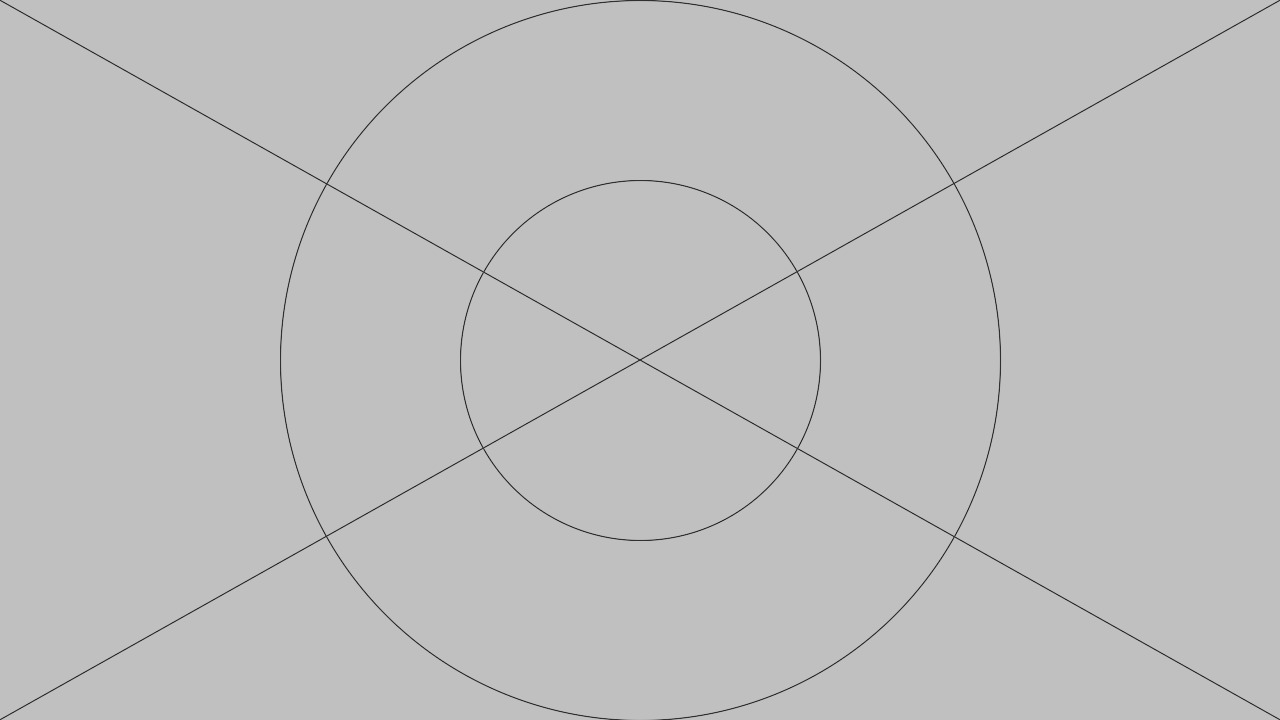
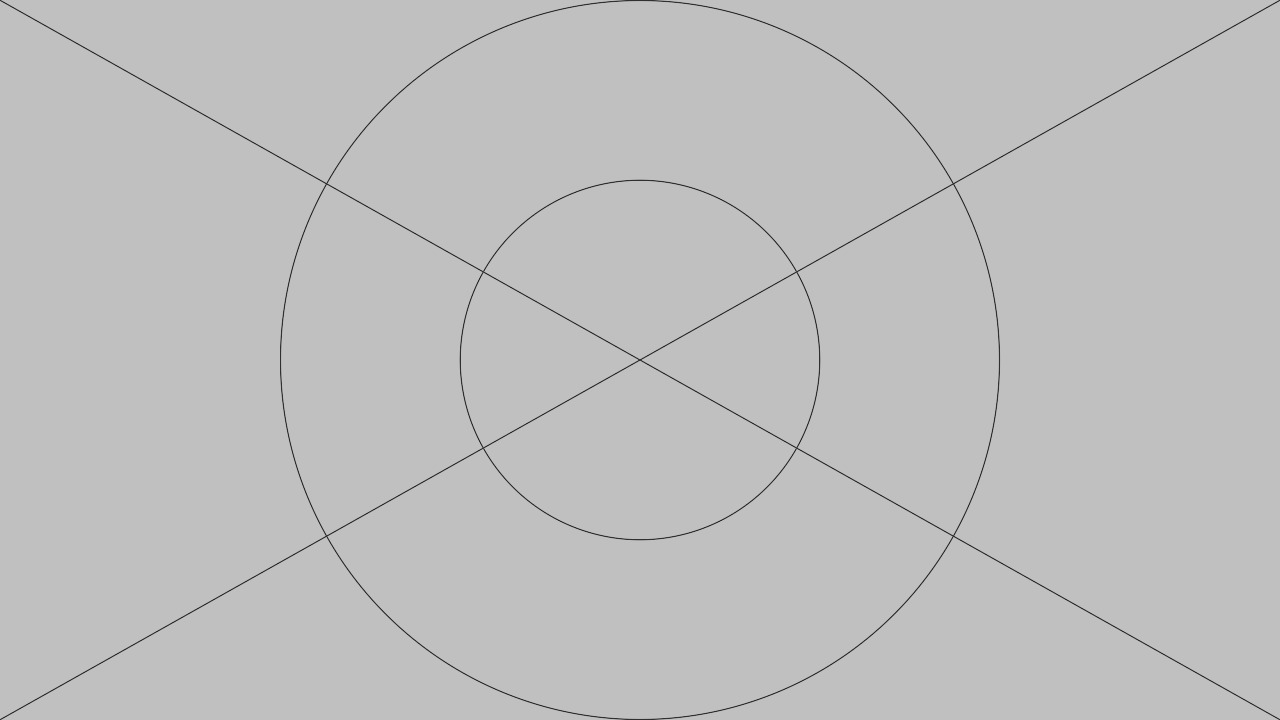
add mig-osoky-files.js

diff --git a/server/image-script/mig-osoky-files.js b/server/image-script/mig-osoky-files.js
@@ -1,0 +1,72 @@
+var exec = require('child_process').exec;
+var fs = require('fs');
+var tds = require('tedious');
+var types = tds.TYPES;
+
+var init = require('../base/init');
+var config = require('../base/config');
+var fs2 = require('../base/fs2');
+var mongo2 = require('../base/mongo2');
+var imageb = require('../image/image-base');
+
+/* 
+  먼저 public 디렉토리를 public-old 로 변경해 놓는다.
+  구 디렉토리에서 새 디렉토리로 필요한 파일만 이동한다.
+
+  $ node server/image-script/mig-osoky-files.js -c config/osoky-dev.json 1 10
+*/
+
+init.main(function (done) {
+  if (config.argv._.length != 2) {
+    console.log('Start and end ids should be specified.');
+    return done();
+  }
+  var s = parseInt(config.argv._[0]);
+  var e = parseInt(config.argv._[1]);
+  var i = s;
+  (function loop() {
+    if (i > e) {
+      mongo2.db.close();
+      return done();
+    }
+    doIt(i++, function (err) {
+      if (err) return done(err);
+      setImmediate(loop);
+    });
+  })();
+});
+
+var maxWidth = 1080;
+
+function doIt(id, done) {
+  var src = config.uploadDir + '/public-old/images/' + fs2.makeDeepPath(id, 3) + '/' + id + '-org.jpeg';
+  console.log(src);
+  fs.access(src, function (err) {
+    if (err) return done();
+    imageb.checkImageMeta(src, function (err, meta) {
+      if (err) return done(err);
+      fs2.makeDir(imageb.getDir(id), function (err) {
+        if (err) return done(err);
+        var shorter = meta.shorter * 299 / 320;
+        var max = shorter < maxWidth ? shorter : maxWidth;
+        var r = (max - 1) / 2;
+        var cmd = 'convert ' + src;
+        cmd += ' -quality 92';
+        cmd += ' -gravity center';
+        cmd += ' -auto-orient';
+        cmd += ' -crop ' + shorter + 'x' + shorter + '+0+0';
+        cmd += ' +repage';
+        cmd += ' -resize ' + max + 'x' + max + '\\>';
+        cmd += ' \\( -size ' + max + 'x' + max + ' xc:black -fill white -draw "circle ' + r + ',' + r + ' ' + r + ',0" \\)'
+        cmd += ' -alpha off -compose CopyOpacity -composite'
+        //cmd += ' \\( +clone -alpha opaque -fill white -colorize 100% \\)'
+        //cmd += ' +swap -geometry +0+0 -compose Over -composite -alpha off'
+        cmd += ' -background white -alpha remove -alpha off'; // alpha remove need IM 6.7.5 or above
+        cmd += ' ' + imageb.getPath(id);
+        exec(cmd, function (err) {
+          done(err, null);
+        });
+      });
+    });
+  });
+}

diff --git a/samples/make-samples.js b/samples/make-samples.js
@@ -34,17 +34,19 @@ function saveImage(next) {
     var v = _vers[i++];
     var w = v.width;
     var h = v.height;
+    var lx = w - 1;
+    var ly = h - 1;
     var cmd = '';
     cmd += 'convert -size ' + w + 'x' + h + ' xc:#c0c0c0';
     cmd += ' -fill "#c0c0c0" -stroke "#303030" '
     if (w > h) {
-      cmd += ' -draw "circle ' + w / 2 + ', ' + h / 2 + ', ' + w / 2 + ', 0"';
-      cmd += ' -draw "circle ' + w / 2 + ', ' + h / 2 + ', ' + w / 2 + ', ' + h / 4 + '"';
+      cmd += ' -draw "circle ' + lx / 2 + ', ' + ly / 2 + ', ' + lx / 2 + ', 0"';
+      cmd += ' -draw "circle ' + lx / 2 + ', ' + ly / 2 + ', ' + lx / 2 + ', ' + ly / 4 + '"';
     } else {
-      cmd += ' -draw "circle ' + w / 2 + ', ' + h / 2 + ', ' + '0, ' + h / 2 + '"';
-      cmd += ' -draw "circle ' + w / 2 + ', ' + h / 2 + ', ' + w / 4 + ', ' + h / 2 + '"';
+      cmd += ' -draw "circle ' + lx / 2 + ', ' + ly / 2 + ', ' + '0, ' + ly / 2 + '"';
+      cmd += ' -draw "circle ' + lx / 2 + ', ' + ly / 2 + ', ' + lx / 4 + ', ' + ly / 2 + '"';
     }
-    cmd += ' -draw "line 0,0 ' + (w - 1) + ',' + (h - 1) + ' line 0,' + (h - 1) + ' ' + (w - 1) + ',0"';
+    cmd += ' -draw "line 0,0 ' + lx + ',' + ly + ' line 0,' + ly + ' ' + lx + ',0"';
     cmd += ' -quality 92 samples/' + w + 'x' + h + '.jpg';
     console.log(cmd);
     exec(cmd, function (err) {

diff --git a/server/image/image-base-osoky.js b/server/image/image-base-osoky.js
@@ -40,20 +40,20 @@ imageb.checkImageMeta = function (path, done) {
   });
 };
 
-imageb.saveImage = function (id, upload, meta, done) {
+imageb.saveImage = function (id, src, meta, done) {
   fs2.makeDir(imageb.getDir(id), function (err) {
     if (err) return done(err);
     var shorter = meta.shorter;
     var max = shorter < maxWidth ? shorter : maxWidth;
-    var r = (max / 2) >> 0;
-    var cmd = 'convert ' + upload.path;
+    var r = (max - 1) / 2;
+    var cmd = 'convert ' + src;
     cmd += ' -quality 92';
     cmd += ' -gravity center';
     cmd += ' -auto-orient';
     cmd += ' -crop ' + shorter + 'x' + shorter + '+0+0';
-    //cmd += ' +repage'
+    cmd += ' +repage'; // gif 등에 버추얼 캔버스 개념이 있는데 jpeg 으로 출력하더라고 메타 데이터 소거를 위해 crop 후 repage 하는 것이 좋다.
     cmd += ' -resize ' + max + 'x' + max + '\\>';
-    cmd += ' \\( -size ' + max + 'x' + max + ' xc:black -fill white -draw "circle ' + r + ',' + r + ' ' + r + ',1" \\)'
+    cmd += ' \\( -size ' + max + 'x' + max + ' xc:black -fill white -draw "circle ' + r + ',' + r + ' ' + r + ',0" \\)'
     cmd += ' -alpha off -compose CopyOpacity -composite'
     //cmd += ' \\( +clone -alpha opaque -fill white -colorize 100% \\)'
     //cmd += ' +swap -geometry +0+0 -compose Over -composite -alpha off'

diff --git a/server/image/image-update.js b/server/image/image-update.js
@@ -40,7 +40,7 @@ expb.core.put('/api/images/:id([0-9]+)', expu.handler(function (req, res, done) 
           if (err) return done(err);
           // 파일, 디렉토리 삭제는 하지 않고 그냥 덮어쓴다.
           // 삭제할 때 파일 없을 경우 에러나는 등 부작용 가능성.
-          imageb.saveImage(id, upload, meta, function (err, vers) {
+          imageb.saveImage(id, upload.path, meta, function (err, vers) {
             if (err) return done(err);
             next({}, meta, vers);
           });

diff --git a/server/image/image-new.js b/server/image/image-new.js
@@ -45,7 +45,7 @@ expb.core.post('/api/images', expu.handler(function (req, res, done) {
           imageb.checkImageMeta(upload.path, function (err, meta) {
             if (err) return done(err);
             var id = imageb.getNewId();
-            imageb.saveImage(id, upload, meta, function (err, vers) {
+            imageb.saveImage(id, upload.path, meta, function (err, vers) {
               if (err) return done(err);
               var image = {
                 _id: id,

diff --git a/server/base/assert2.js b/server/base/assert2.js
@@ -12,8 +12,15 @@ assert2.chai.use(function (chai, utils) {
   var Assertion = chai.Assertion;
   Assertion.addProperty('pathExist', function () {
     new Assertion(this._obj).a('string');
+    var exist;
+    try {
+      fs.accessSync(this._obj);
+      exist = true;
+    } catch (e) {
+      exist = false;
+    }
     this.assert(
-      fs.existsSync(this._obj),
+      exist,
       "expected #{this} to exist",
       "expected #{this} not to exist"
     );

diff --git a/server/image/image-base-raysoda.js b/server/image/image-base-raysoda.js
@@ -40,10 +40,10 @@ imageb.checkImageMeta = function (path, done) {
   });
 };
 
-imageb.saveImage = function (id, upload, meta, done) {
+imageb.saveImage = function (id, src, meta, done) {
   fs2.makeDir(imageb.getDir(id), function (err) {
     if (err) return done(err);
-    var cmd = 'convert ' + upload.path;
+    var cmd = 'convert ' + src;
     cmd += ' -quality 92';
     cmd += ' -auto-orient';
     cmd += ' -resize ' + maxWidth + 'x' + maxWidth + '\\>';

diff --git a/server/image/image-base-drypot.js b/server/image/image-base-drypot.js
@@ -38,10 +38,10 @@ imageb.checkImageMeta = function (path, done) {
   });
 };
 
-imageb.saveImage = function (id, upload, meta, done) {
+imageb.saveImage = function (id, src, meta, done) {
   fs2.makeDir(imageb.getDir(id), function (err) {
     if (err) return done(err);
-    fs.rename(upload.path, imageb.getPath(id), function (err) {
+    fs2.copy(src, imageb.getPath(id), function (err) {
       done(err, null);
     });
   });

diff --git a/public/static/css/base.css b/public/static/css/base.css
@@ -47,6 +47,11 @@ pre.sample {
   margin: 0 auto;
   text-align: left; }
 
+.basic-table table {
+  margin: 0 auto; }
+  .basic-table table td {
+    padding: 0px 20px; }
+
 .site-name {
   margin: 0.6em auto;
   font-size: 1.3em; }
@@ -145,8 +150,3 @@ pre.sample {
 
 #profile-text {
   white-space: pre-line; }
-
-.basic-table table {
-  margin: 0 auto; }
-  .basic-table table td {
-    padding: 0px 20px; }

diff --git a/server/image/image-base-rapixel.js b/server/image/image-base-rapixel.js
@@ -58,10 +58,10 @@ imageb.checkImageMeta = function (path, done) {
   });
 };
 
-imageb.saveImage = function (id, upload, meta, done) {
+imageb.saveImage = function (id, src, meta, done) {
   fs2.makeDir(imageb.getDir(id), function (err) {
     if (err) return done(err);
-    var cmd = 'convert ' + upload.path;
+    var cmd = 'convert ' + src;
     cmd += ' -quality 92';
     cmd += ' -gravity center';
 

diff --git a/public/static/css/base.scss b/public/static/css/base.scss
@@ -98,6 +98,17 @@ pre.sample {
   text-align: left;
 }
 
+// table
+
+.basic-table {
+  table {
+    margin: 0 auto;
+    td {
+      padding: 0px 20px;
+    }
+  }
+}
+
 // home
 
 .site-name {
@@ -240,15 +251,3 @@ pre.sample {
 #profile-text {
   white-space: pre-line;
 }
-
-// table
-
-.basic-table {
-  table {
-    margin: 0 auto;
-    td {
-      padding: 0px 20px;
-    }
-  }
-}
-

diff --git a/server/mig-raysoda/mig-image-comment.js b/server/mig-raysoda/mig-image-comment.js
@@ -6,7 +6,9 @@ var config = require('../base/config');
 var mongo2 = require('../base/mongo2');
 var imageb = require('../image/image-base');
 
-/* 
+/*
+  사진 코멘트 부분을 추가적으로 변경하는 것이 좋겠다.
+
   $ node server/mig-raysoda/mig-image-comment.js -c config/mig-1-dev.json 1 10
 */
 
